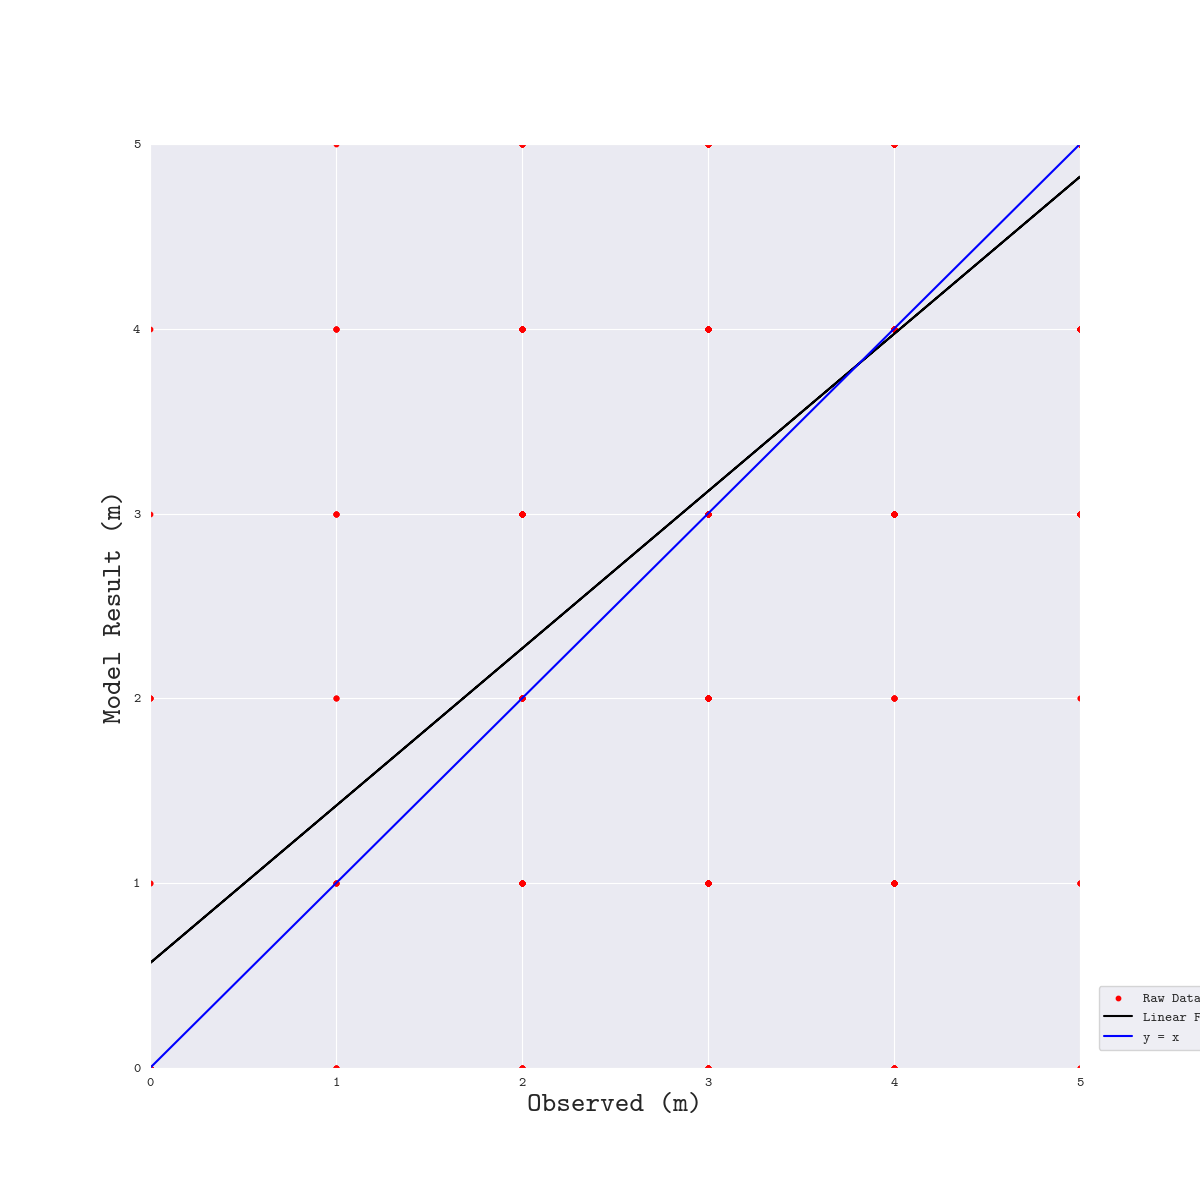
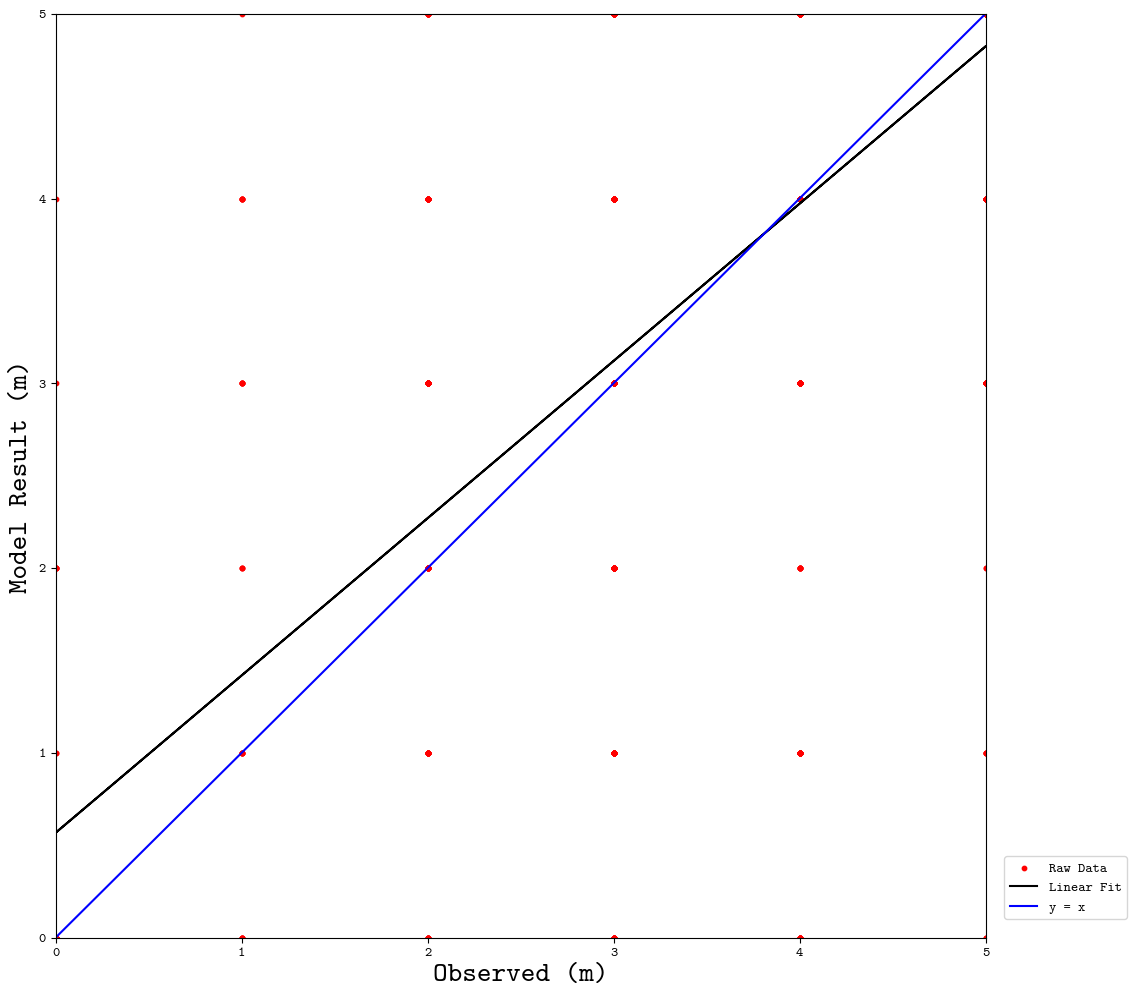
.

diff --git a/1.Scatter_Plot_for_Visible.py b/1.Scatter_Plot_for_Visible.py
@@ -7,11 +7,7 @@ import matplotlib.pyplot as plt
 import warnings
 warnings.filterwarnings("ignore")
 
-def create_folder(temp_path):
-    if os.path.isdir(temp_path):
-        pass
-    else:
-        os.mkdir(temp_path)
+from plot_definition import create_folder
 
 
 ##### variables #####
@@ -54,9 +50,9 @@ plt.legend(loc=(1.02, 0.02))  # plt.legend(loc = 'best')
 
 ##### save image #####
 try:
-    plt.savefig(f"{save_path}{file_name}.png")
+    plt.savefig(f"{save_path}{file_name}.png", bbox_inches = 'tight')
 except:
     create_folder(save_path)
-    plt.savefig(f"{save_path}{file_name}.png")
+    plt.savefig(f"{save_path}{file_name}.png", bbox_inches = 'tight')
 
 plt.show()

diff --git a/2.Confusion_Matrix_For_Multi_Class.py b/2.Confusion_Matrix_For_Multi_Class.py
@@ -1,0 +1,13 @@
+from plot_definition import *
+
+# 개별 시간대 및 데이터 유형별로 그래프 뽑기
+save_path = '/home/seohyunwoo/paper_img/fog/result_img/'
+datasets_info = "fix_1_30000_12"
+data_type_list = ["train","test"]
+predict_hour_list = [1,2,3]
+label_list = ["0 ~ 0.2","0.2 ~ 0.5","0.5 ~ 1","1 ~ 2","2 ~ 5","5 ~\n(km)"]
+file_info = "class"
+
+for data_type in data_type_list:
+    for predict_hour in predict_hour_list:
+        process_each_def(data_type, predict_hour, label_list, save_path, datasets_info, file_info)
